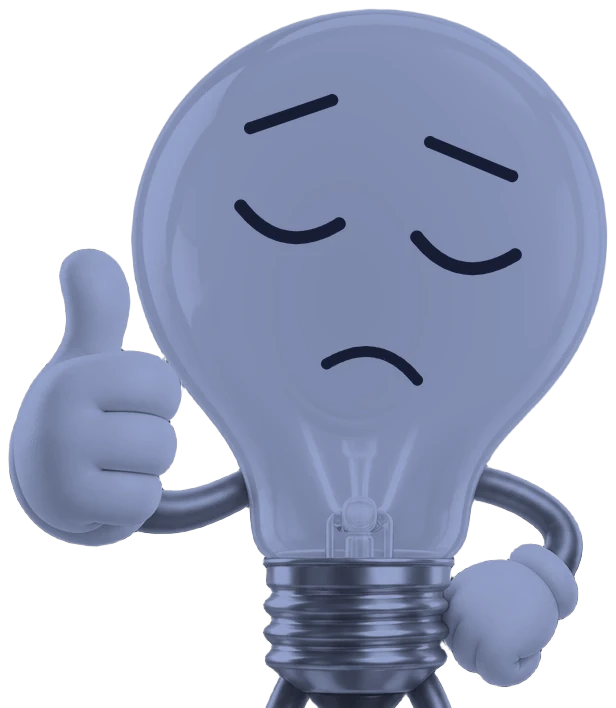
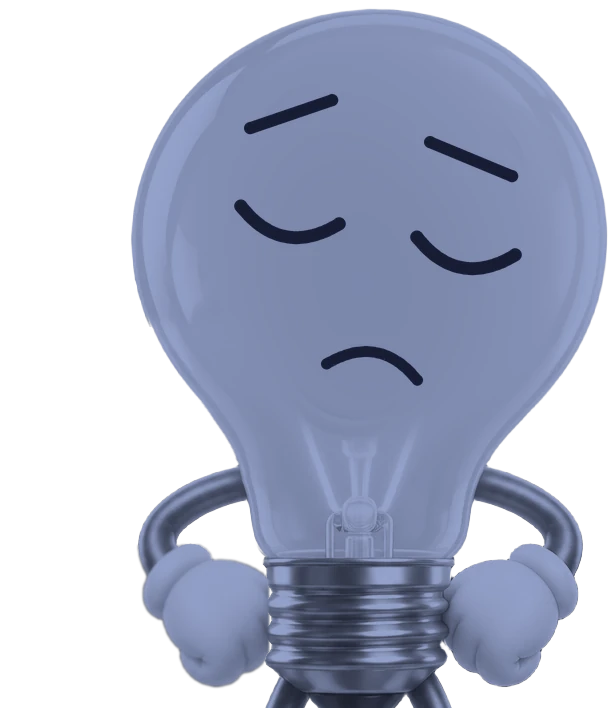
Лампочка без світла: обидві руки в боки

Changed region(s): [[0.0, 0.3418, 0.4627, 0.9944], [0.3393, 0.5904, 0.3701, 0.6215]]

diff --git a/public/sw.js b/public/sw.js
@@ -1,4 +1,4 @@
-const CACHE_NAME = "sho-po-svitlu-shell-v16";
+const CACHE_NAME = "sho-po-svitlu-shell-v17";
 const APP_SHELL = ["/", "/index.html", "/config.js", "/css/style.css", "/js/app.js", "/js/api.js", "/js/timeline.js", "/manifest.json", "/icons/icon.svg", "/icons/icon-192.png", "/icons/icon-512.png", "/icons/apple-touch-icon.png", "/icons/favicon-32.png", "/images/mascot-lightbulb.webp", "/images/mascot-lightbulb-off.webp", "/images/skyline.svg", "/images/skyline-lights.svg"];
 
 self.addEventListener("install", (event) => {
